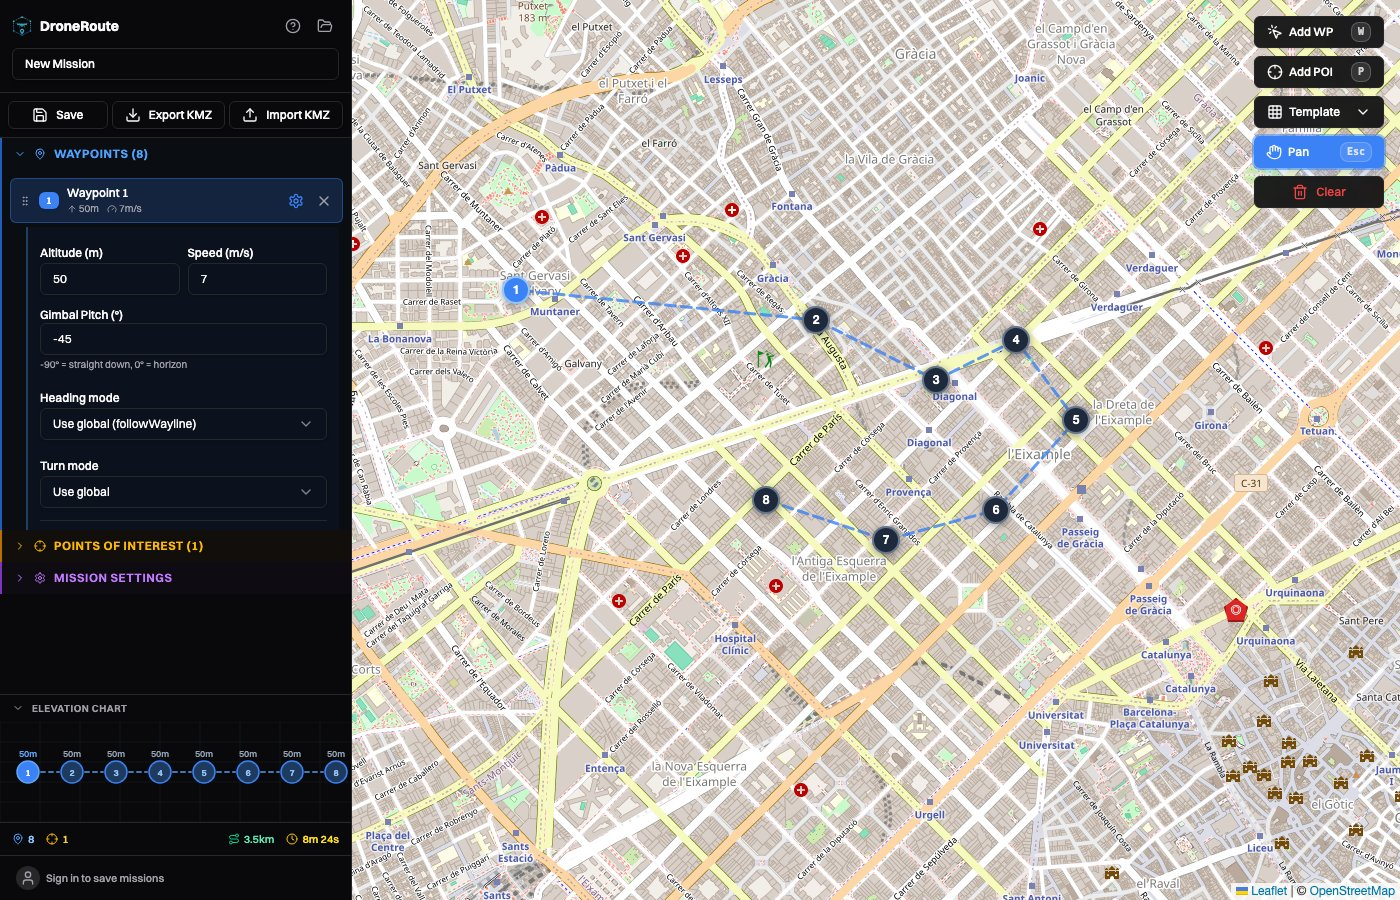
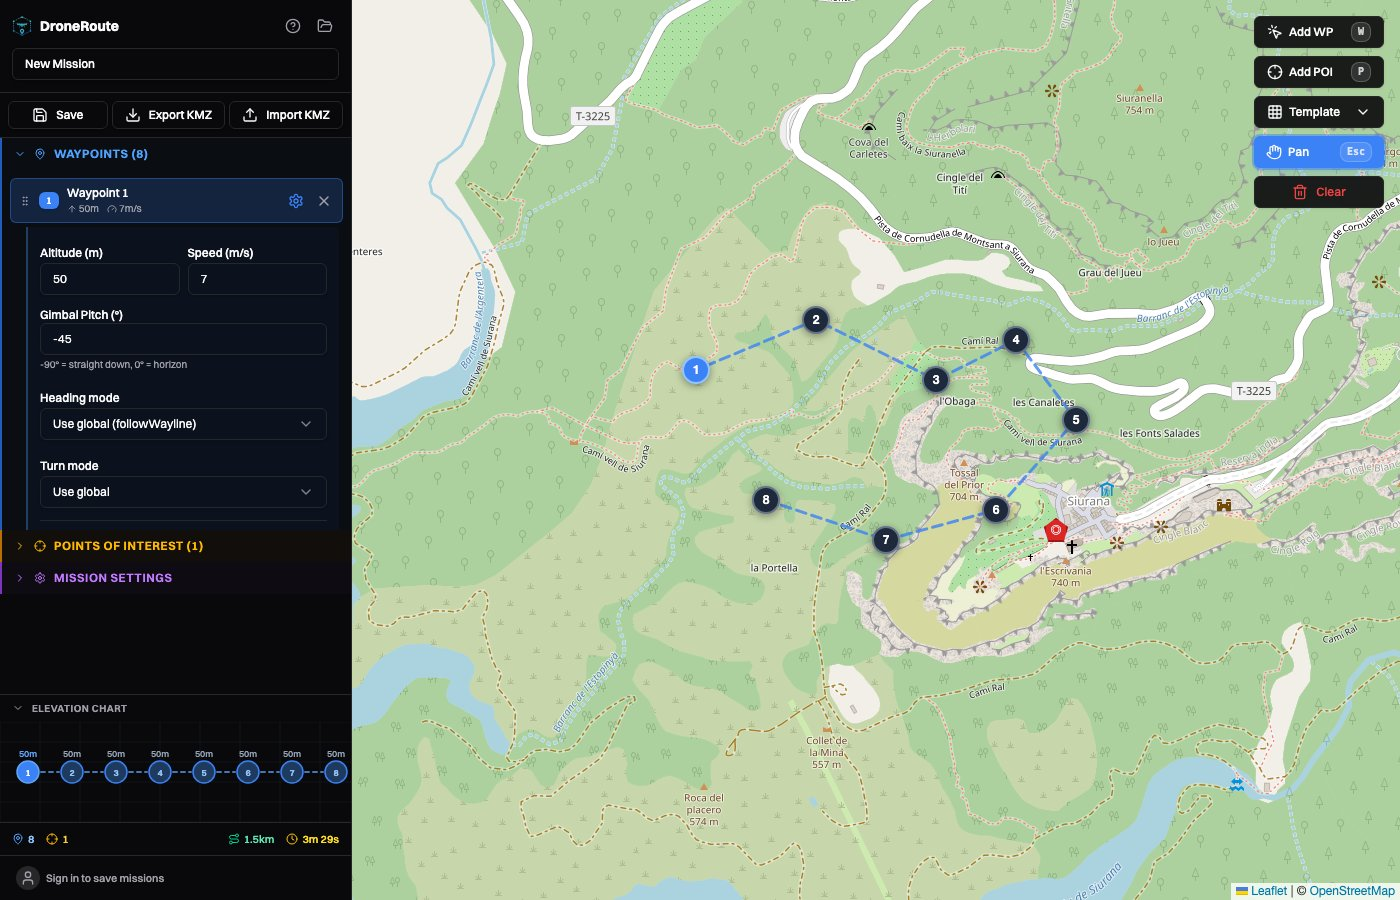
Pan map to rural Siurana coordinates for realistic drone screenshots

diff --git a/scripts/screenshots.js b/scripts/screenshots.js
@@ -6,6 +6,27 @@ const OUT = path.join(__dirname, '..', 'docs', 'screenshots');
 
 function sleep(ms) { return new Promise(r => setTimeout(r, ms)); }
 
+// Rural coordinates for realistic drone screenshots (near Cingle Blanc)
+const TARGET_LAT = 41.257517;
+const TARGET_LNG = 0.930963;
+const TARGET_ZOOM = 15;
+
+// Pan the Leaflet map to the target coordinates
+async function panToTarget(page) {
+  // Wait until the ExposeMapInstance React effect has fired
+  await page.waitForFunction(() => {
+    const c = document.querySelector('.leaflet-container');
+    return c && c._leaflet_map;
+  }, { timeout: 10000 });
+
+  await page.evaluate(([lat, lng, zoom]) => {
+    const container = document.querySelector('.leaflet-container');
+    const map = container._leaflet_map;
+    map.setView([lat, lng], zoom, { animate: false });
+  }, [TARGET_LAT, TARGET_LNG, TARGET_ZOOM]);
+  await sleep(2000); // Wait for tiles to load
+}
+
 // Zoom the Leaflet map in by the given number of levels using the scroll wheel
 async function zoomIn(page, map, levels = 3) {
   const box = await map.boundingBox();
@@ -37,6 +58,7 @@ async function zoomIn(page, map, levels = 3) {
     await page.goto(BASE);
     await page.waitForSelector('.leaflet-container');
     await sleep(2000);
+    await panToTarget(page);
 
     const map = page.locator('.leaflet-container');
     const box = await map.boundingBox();
@@ -73,6 +95,7 @@ async function zoomIn(page, map, levels = 3) {
     await page.goto(BASE);
     await page.waitForSelector('.leaflet-container');
     await sleep(2000);
+    await panToTarget(page);
 
     const map = page.locator('.leaflet-container');
     const box = await map.boundingBox();
@@ -115,6 +138,7 @@ async function zoomIn(page, map, levels = 3) {
     await page.goto(BASE);
     await page.waitForSelector('.leaflet-container');
     await sleep(2000);
+    await panToTarget(page);
 
     const map = page.locator('.leaflet-container');
     const box = await map.boundingBox();
@@ -148,6 +172,7 @@ async function zoomIn(page, map, levels = 3) {
     await page.goto(BASE);
     await page.waitForSelector('.leaflet-container');
     await sleep(2000);
+    await panToTarget(page);
 
     const map = page.locator('.leaflet-container');
     const box = await map.boundingBox();
@@ -181,6 +206,7 @@ async function zoomIn(page, map, levels = 3) {
     await page.goto(BASE);
     await page.waitForSelector('.leaflet-container');
     await sleep(2000);
+    await panToTarget(page);
 
     const map = page.locator('.leaflet-container');
     const box = await map.boundingBox();
@@ -224,6 +250,7 @@ async function zoomIn(page, map, levels = 3) {
     await page.goto(BASE);
     await page.waitForSelector('.leaflet-container');
     await sleep(2000);
+    await panToTarget(page);
 
     const map = page.locator('.leaflet-container');
     const box = await map.boundingBox();

diff --git a/packages/frontend/src/components/map/MapView.tsx b/packages/frontend/src/components/map/MapView.tsx
@@ -27,6 +27,16 @@ function MapClickHandler() {
   return null;
 }
 
+/** Expose the Leaflet map instance on the container for external automation. */
+function ExposeMapInstance() {
+  const map = useMap();
+  useEffect(() => {
+    const container = map.getContainer();
+    (container as any)._leaflet_map = map;
+  }, [map]);
+  return null;
+}
+
 /**
  * Automatically fits the map to show all waypoints when a mission is loaded
  * (import or saved route). Triggers when waypoints go from 0 to N.
@@ -175,6 +185,7 @@ export function MapView() {
           url="https://{s}.tile.openstreetmap.org/{z}/{x}/{y}.png"
         />
         <MapClickHandler />
+        <ExposeMapInstance />
         <FitBoundsOnLoad />
         <FlightPath />
         <PoiPointingLines />
